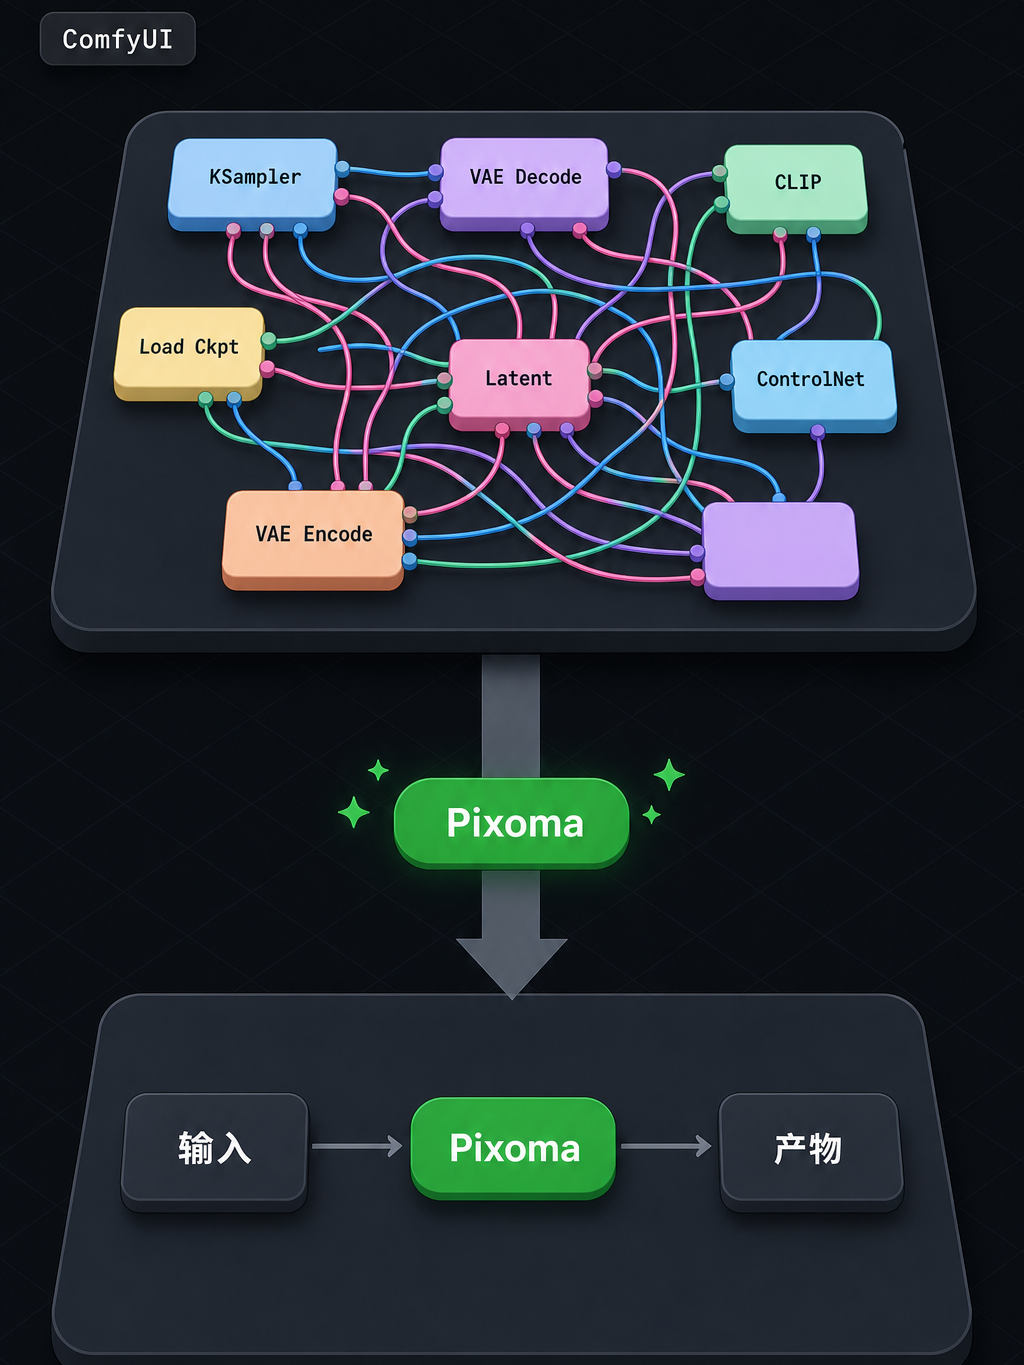
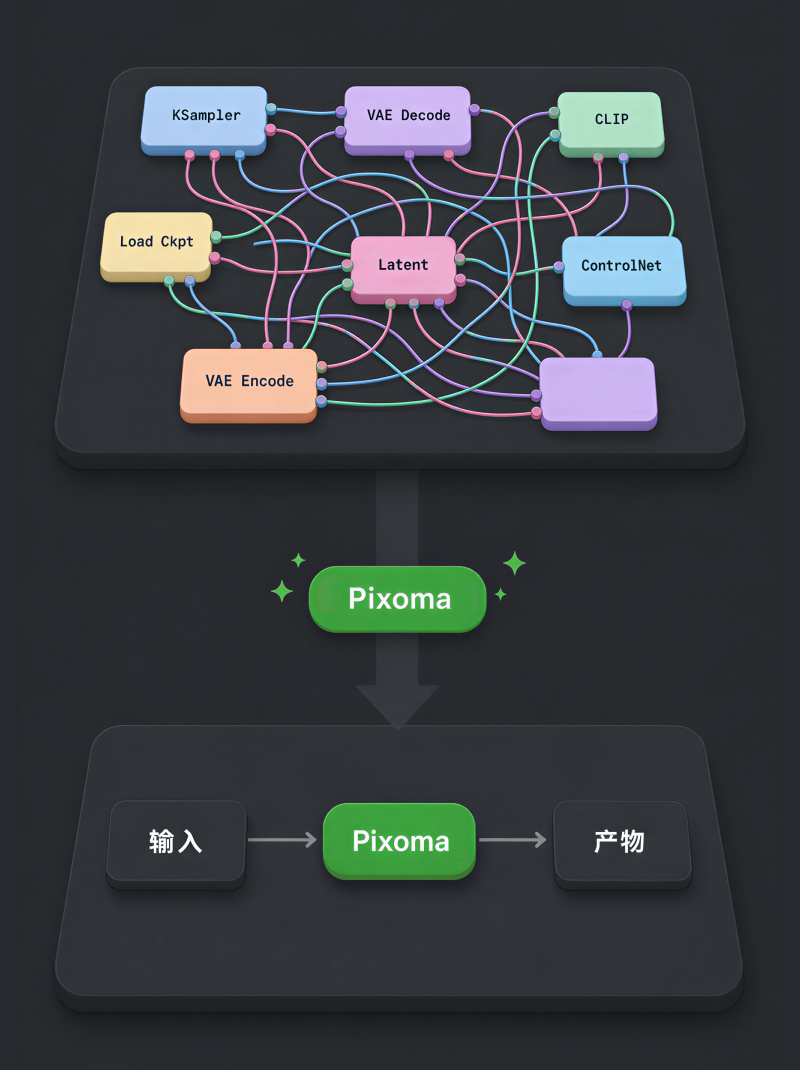
chore: 更新化繁为简配图为新版双主题图
替换暗色/亮色两张 simplify 图为 800×1070 新版，同步修正组件宽高。

diff --git a/web/landing/src/components/features-3.tsx b/web/landing/src/components/features-3.tsx
@@ -68,8 +68,8 @@ export default function Features() {
               <Image
                 src={isDark ? "/images/simplify-dark.png" : "/images/simplify-light.png"}
                 alt="化繁为简：ComfyUI 节点被 Pixoma 简化为三段式工作流"
-                width={1024}
-                height={1365}
+                width={800}
+                height={1070}
                 className="absolute inset-0 size-full object-cover"
               />
             </Card>
